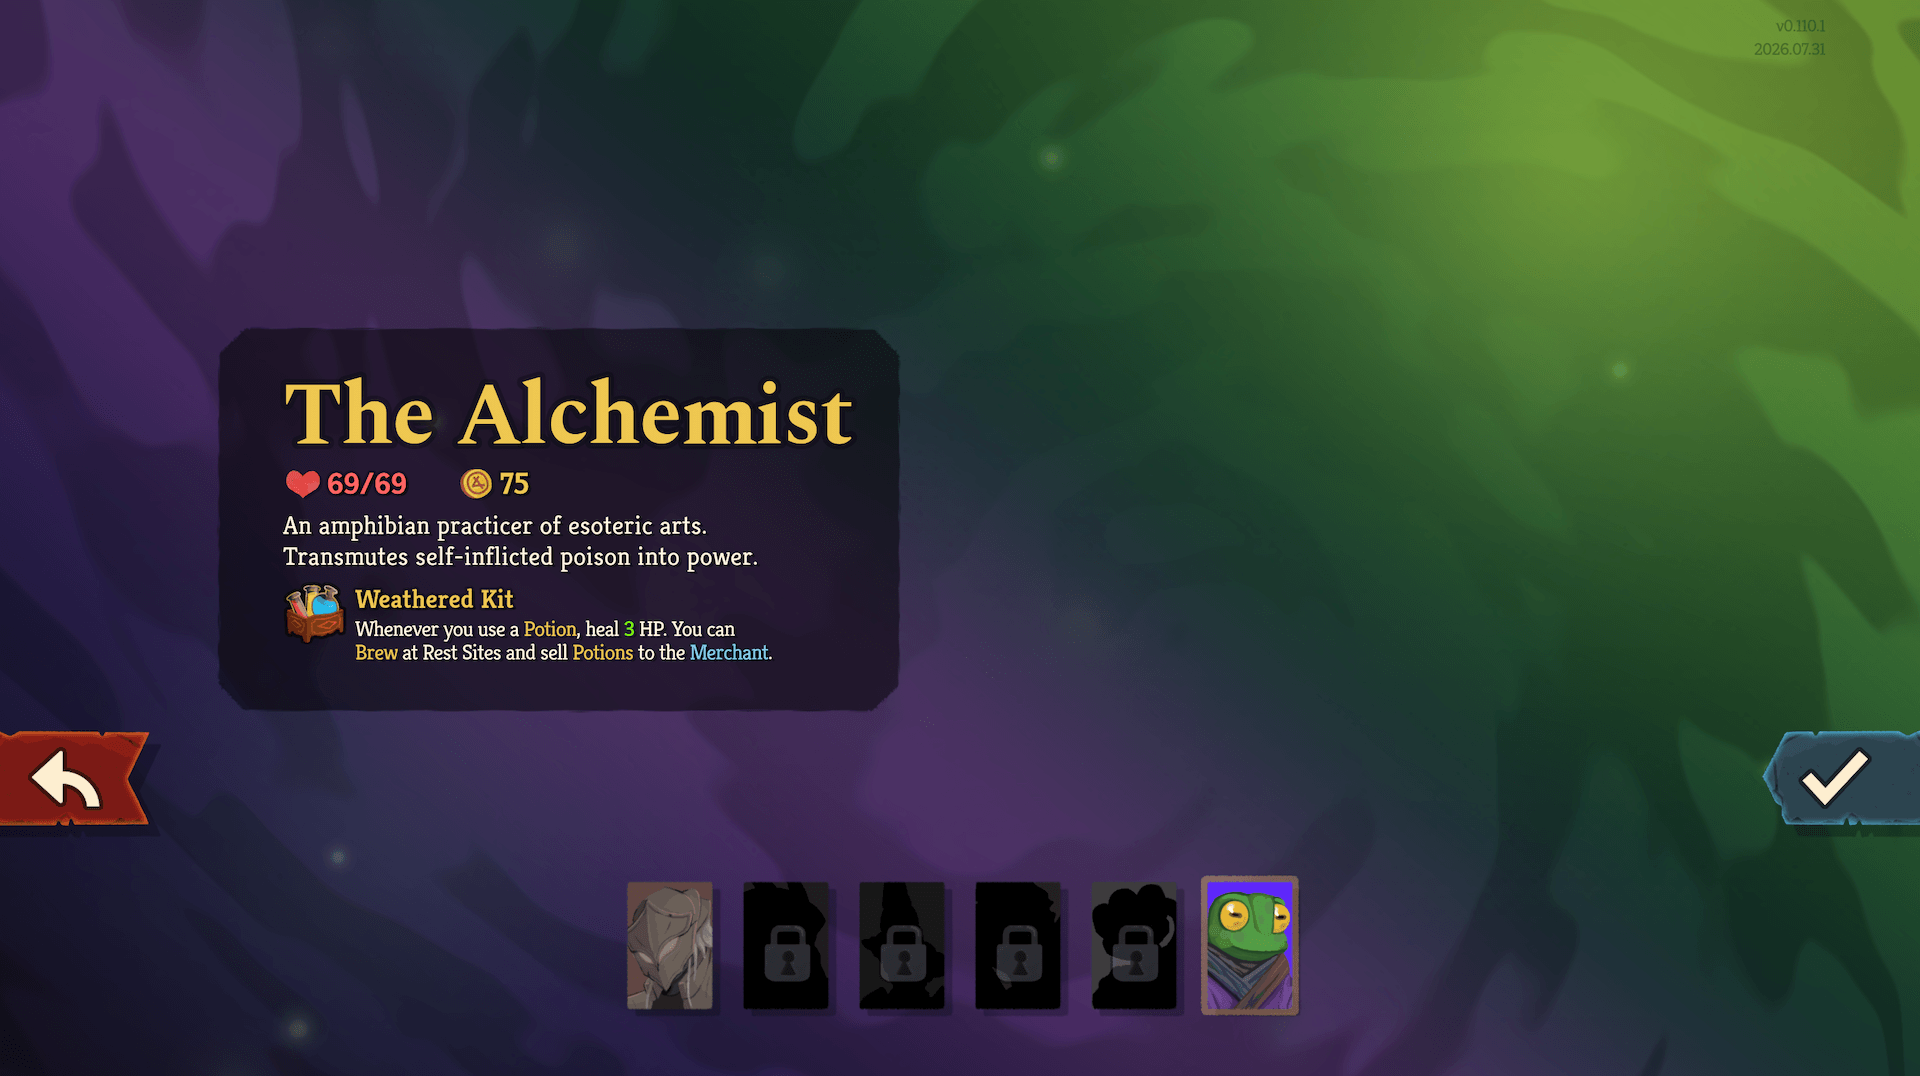
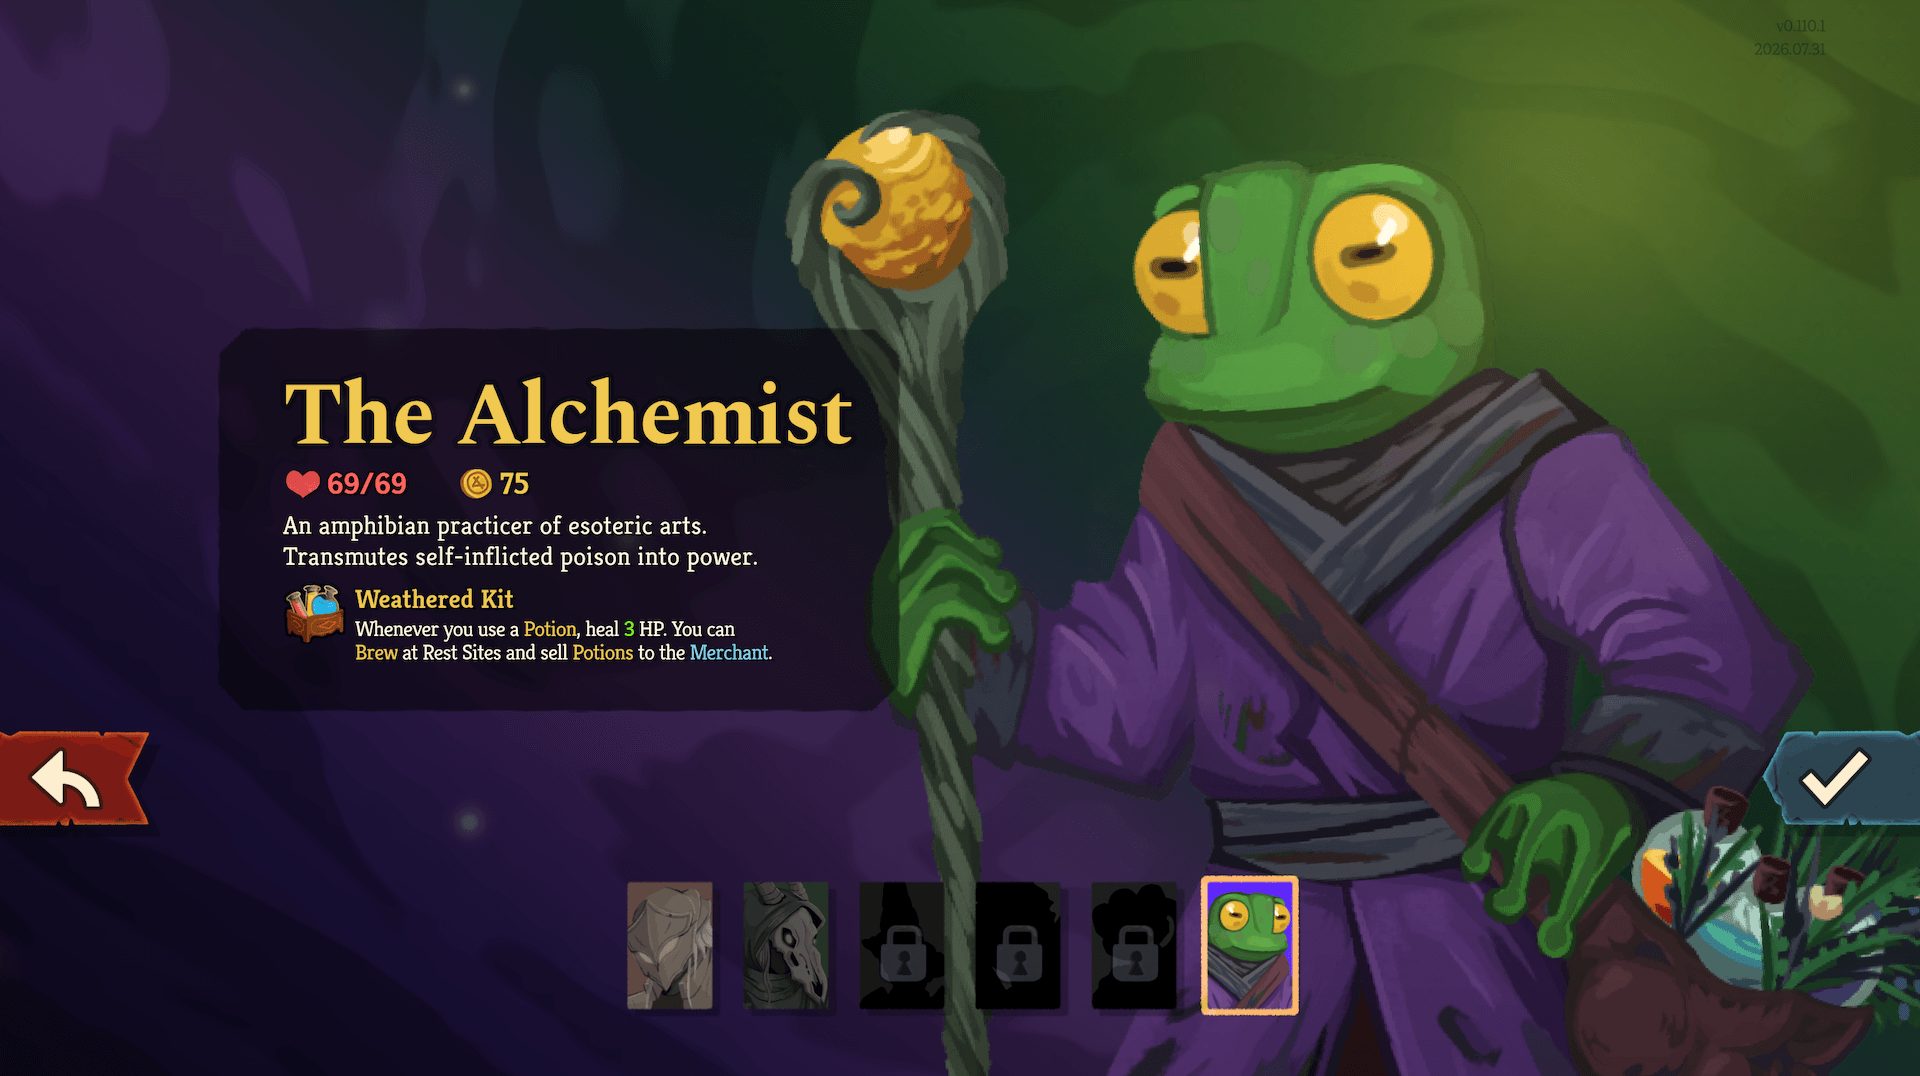
feat: update character select screen

diff --git a/AlchemistCode/Patches/CharSelectBgPatches.cs b/AlchemistCode/Patches/CharSelectBgPatches.cs
@@ -30,8 +30,25 @@ class CharSelectBgPatches
             // The Alchemist background is the one with these marker nodes
             if (child is Control bg && bg.GetNodeOrNull<TextureRect>("Gradient") != null
                 && bg.GetNodeOrNull<CpuParticles2D>("SpecksGold") != null)
+            {
                 ApplyParticleAssets(bg);
+                AnimateCharacter(bg);
+            }
         }
+    }
+
+    // A slow breathing idle for the flat character art: a gentle sine scale pivoted at
+    // the feet (the pivot is set in the scene), so the chest rises and the feet stay
+    static void AnimateCharacter(Control bg)
+    {
+        if (bg.GetNodeOrNull<TextureRect>("Character") is not { } character)
+            return;
+
+        var tween = character.CreateTween().SetLoops();
+        tween.TweenProperty(character, "scale", new Vector2(1.004f, 1.012f), 2.6)
+            .SetTrans(Tween.TransitionType.Sine).SetEase(Tween.EaseType.InOut);
+        tween.TweenProperty(character, "scale", Vector2.One, 2.6)
+            .SetTrans(Tween.TransitionType.Sine).SetEase(Tween.EaseType.InOut);
     }
 
     static void ApplyParticleAssets(Control bg)

diff --git a/CHANGELOG.md b/CHANGELOG.md
@@ -13,6 +13,16 @@ Security.
 
 ## [Unreleased]
 
+### Added
+
+- Added the Alchemist character art to the character select screen, with a subtle
+  breathing idle. The background swirls sit behind the character, and the pulsing
+  lights and rising motes stay in front
+
+### Changed
+
+- Darkened the character select background gradient so the character art stands out
+
 ## [0.6.3] - 2026-08-09
 
 - Added the Alchemist hands used in multiplayer, replacing the Ironclad placeholders
